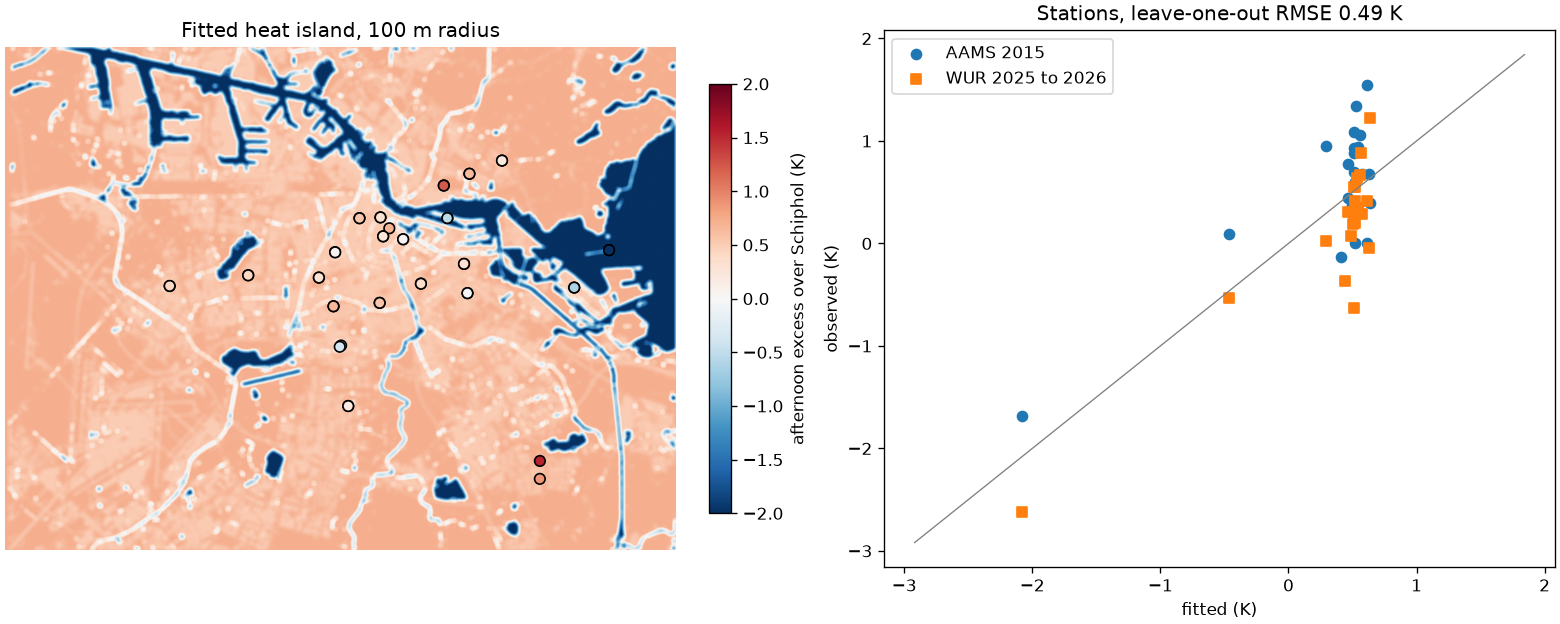
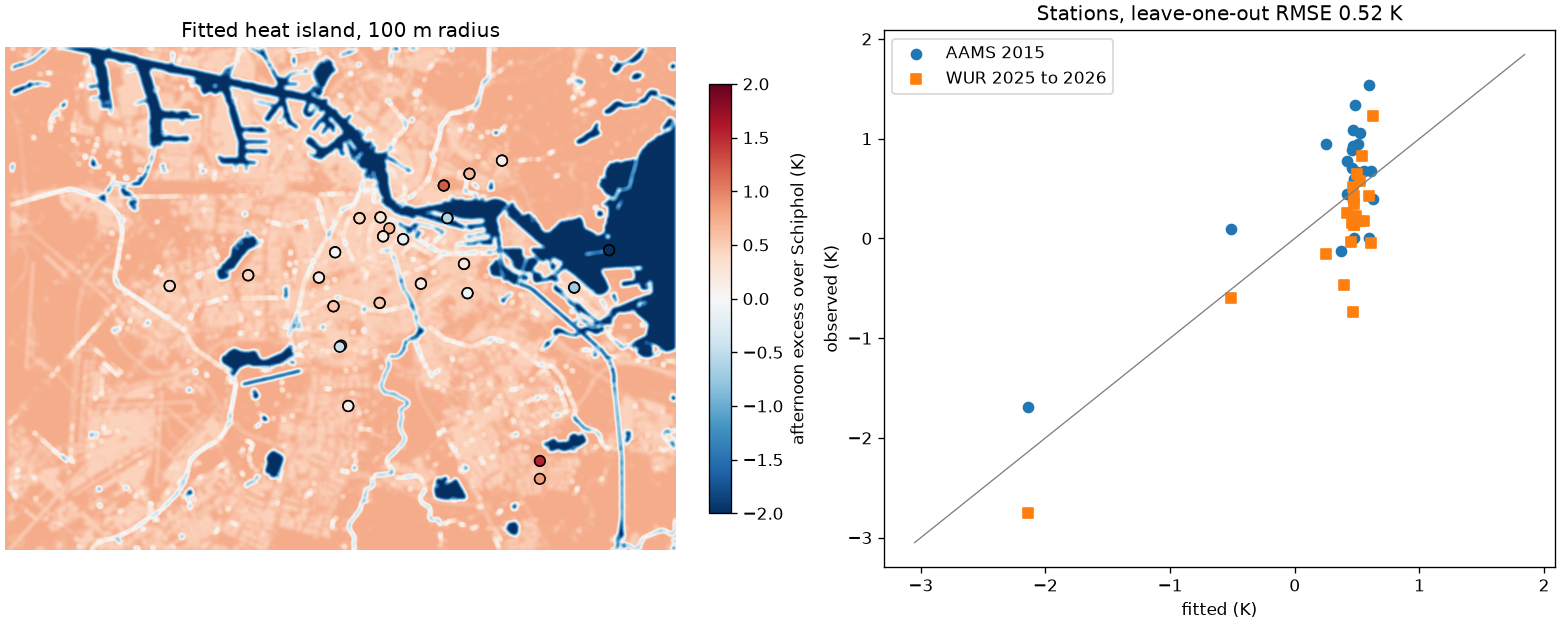
Heat island fit: compare WUR readings at the full hour, as KNMI reports

diff --git a/scripts/fit_uhi.py b/scripts/fit_uhi.py
@@ -75,8 +75,11 @@ def wur() -> tuple[pd.DataFrame, pd.DataFrame]:
         df = pd.read_csv(d / f"distributed_network_{y}.csv", skiprows=[1], na_values="NaN")
         df.index = pd.to_datetime(df.pop("Timestamp")).dt.tz_localize("UTC")
         ta = df[[c for c in df if c.startswith("DN_TA_")]]
-        # mean over [h, h+1) UTC, labelled by the end of the hour as KNMI does
-        frames.append(ta.resample("1h", label="right", closed="left").mean())
+        # KNMI hourly temperature is a reading at the full hour, so take the station
+        # readings within 10 minutes of each full hour rather than an hourly mean
+        near = ta.index.round("1h")
+        close = (ta.index - near).to_series().abs().to_numpy() <= pd.Timedelta(minutes=10)
+        frames.append(ta[close].groupby(near[close]).mean())
     ta = pd.concat(frames)
     ta.columns = ["W" + c.split("_")[2] for c in ta.columns]
     meta = st.assign(station="W" + st["station"].astype(str), network="WUR 2025 to 2026")

diff --git a/docs/uhi.md b/docs/uhi.md
@@ -6,13 +6,13 @@ The model uses air temperature from Schiphol. On hot afternoons (Schiphol maximu
 
 | Radius | Leave-one-out RMSE (K) |
 |---|---|
-| 100 m | 0.49 |
-| 250 m | 0.52 |
-| 500 m | 0.53 |
-| 1000 m | 0.57 |
-| none (city mean) | 0.74 |
+| 100 m | 0.52 |
+| 250 m | 0.55 |
+| 500 m | 0.56 |
+| 1000 m | 0.60 |
+| none (city mean) | 0.76 |
 
-Chosen: 100 m. Excess = +0.72 -0.21 x built -2.87 x water (K, fractions 0 to 1). Station mean excess +0.36 K, range -2.6 to +1.5 K.
+Chosen: 100 m. Excess = +0.74 -0.28 x built -2.95 x water (K, fractions 0 to 1). Station mean excess +0.33 K, range -2.7 to +1.5 K.
 
 | Station | Network | Excess (K) | Fitted (K) | Built | Water |
 |---|---|---|---|---|---|
@@ -20,50 +20,50 @@ Chosen: 100 m. Excess = +0.72 -0.21 x built -2.87 x water (K, fractions 0 to 1).
 | Benkoelenstraat | AAMS 2015 | +1.3 | +0.5 | 0.91 | 0.00 |
 | Zamenhofstraat | WUR 2025 to 2026 | +1.2 | +0.6 | 0.39 | 0.00 |
 | IJburglaan | AAMS 2015 | +1.1 | +0.5 | 0.98 | 0.00 |
-| Raphaelstraat | AAMS 2015 | +1.1 | +0.6 | 0.76 | 0.00 |
+| Raphaelstraat | AAMS 2015 | +1.1 | +0.5 | 0.76 | 0.00 |
 | Nieuwe Uijlenburgerstaat | AAMS 2015 | +0.9 | +0.3 | 0.80 | 0.09 |
 | Tweede Oosterparkstraat | AAMS 2015 | +0.9 | +0.5 | 0.84 | 0.00 |
 | Lutmastraat | AAMS 2015 | +0.9 | +0.5 | 0.97 | 0.00 |
 | Anjelierstraat | AAMS 2015 | +0.9 | +0.5 | 0.94 | 0.00 |
 | Oudezijdsvoorburgwal | AAMS 2015 | +0.9 | +0.5 | 0.99 | 0.00 |
-| Scherpenzeelstraat | WUR 2025 to 2026 | +0.9 | +0.6 | 0.72 | 0.00 |
-| Kattengat | AAMS 2015 | +0.8 | +0.5 | 0.94 | 0.02 |
+| Scherpenzeelstraat | WUR 2025 to 2026 | +0.8 | +0.5 | 0.72 | 0.00 |
+| Kattengat | AAMS 2015 | +0.8 | +0.4 | 0.94 | 0.02 |
 | Oudezijdsvoorburgwal | AAMS 2015 | +0.7 | +0.5 | 1.00 | 0.00 |
 | Saxenburgerdwarsstraat | AAMS 2015 | +0.7 | +0.6 | 0.67 | 0.00 |
 | Galileiplein | AAMS 2015 | +0.7 | +0.6 | 0.44 | 0.00 |
 | Purmerweg | AAMS 2015 | +0.7 | +0.5 | 0.86 | 0.00 |
-| Raephaelstraat | WUR 2025 to 2026 | +0.7 | +0.6 | 0.76 | 0.00 |
 | Purmerweg | WUR 2025 to 2026 | +0.6 | +0.5 | 0.86 | 0.00 |
 | Markengauw | AAMS 2015 | +0.6 | +0.5 | 0.94 | 0.00 |
-| Lutmastraat | WUR 2025 to 2026 | +0.6 | +0.5 | 0.97 | 0.00 |
-| Anjeliersstraat | WUR 2025 to 2026 | +0.5 | +0.5 | 0.94 | 0.00 |
-| Kinkerstraat | AAMS 2015 | +0.4 | +0.5 | 0.90 | 0.02 |
-| Kwelderweg | WUR 2025 to 2026 | +0.4 | +0.5 | 0.96 | 0.00 |
+| Raephaelstraat | WUR 2025 to 2026 | +0.6 | +0.5 | 0.76 | 0.00 |
+| Lutmastraat | WUR 2025 to 2026 | +0.5 | +0.5 | 0.97 | 0.00 |
+| Kinkerstraat | AAMS 2015 | +0.4 | +0.4 | 0.90 | 0.02 |
 | Comeniusstraat | WUR 2025 to 2026 | +0.4 | +0.6 | 0.50 | 0.00 |
+| Anjeliersstraat | WUR 2025 to 2026 | +0.4 | +0.5 | 0.94 | 0.00 |
 | Zamenhofstraat | AAMS 2015 | +0.4 | +0.6 | 0.39 | 0.00 |
 | Saskia van Uylenburgweg | AAMS 2015 | +0.4 | +0.5 | 0.68 | 0.03 |
-| Tweede Oosterparkstraat | WUR 2025 to 2026 | +0.3 | +0.5 | 0.84 | 0.00 |
-| Kattengat | WUR 2025 to 2026 | +0.3 | +0.5 | 0.94 | 0.02 |
-| Benkoelenstraat | WUR 2025 to 2026 | +0.3 | +0.5 | 0.90 | 0.00 |
-| Saxenburgerdwarsstraat | WUR 2025 to 2026 | +0.3 | +0.6 | 0.67 | 0.00 |
+| Kwelderweg | WUR 2025 to 2026 | +0.3 | +0.5 | 0.96 | 0.00 |
+| Kattengat | WUR 2025 to 2026 | +0.3 | +0.4 | 0.94 | 0.02 |
+| Benkoelenstraat | WUR 2025 to 2026 | +0.2 | +0.5 | 0.90 | 0.00 |
+| Tweede Oosterparkstraat | WUR 2025 to 2026 | +0.2 | +0.5 | 0.84 | 0.00 |
+| Saxenburgerdwarsstraat | WUR 2025 to 2026 | +0.2 | +0.6 | 0.67 | 0.00 |
 | Oudezijdsvoorburgwal_Z | WUR 2025 to 2026 | +0.2 | +0.5 | 0.99 | 0.00 |
-| Markengauw | WUR 2025 to 2026 | +0.2 | +0.5 | 0.94 | 0.00 |
-| Saskia van Uylenburgweg | WUR 2025 to 2026 | +0.2 | +0.5 | 0.65 | 0.03 |
+| Markengauw | WUR 2025 to 2026 | +0.1 | +0.5 | 0.94 | 0.00 |
+| Saskia van Uylenburgweg | WUR 2025 to 2026 | +0.1 | +0.5 | 0.65 | 0.03 |
 | Javakade | AAMS 2015 | +0.1 | -0.5 | 0.53 | 0.37 |
-| Kinkerstraat | WUR 2025 to 2026 | +0.1 | +0.5 | 0.88 | 0.02 |
-| Nieuwe Uilenburgerstraat | WUR 2025 to 2026 | +0.0 | +0.3 | 0.80 | 0.09 |
 | Kwelderweg | AAMS 2015 | +0.0 | +0.5 | 0.96 | 0.00 |
 | Comeniusstaat | AAMS 2015 | +0.0 | +0.6 | 0.50 | 0.00 |
-| Galileiplantsoen | WUR 2025 to 2026 | -0.0 | +0.6 | 0.44 | 0.00 |
+| Kinkerstraat | WUR 2025 to 2026 | -0.0 | +0.4 | 0.88 | 0.02 |
+| Galileiplantsoen | WUR 2025 to 2026 | -0.1 | +0.6 | 0.44 | 0.00 |
 | Gustav Mahlerplein | AAMS 2015 | -0.1 | +0.4 | 0.86 | 0.04 |
-| Gustav Mahlerplein | WUR 2025 to 2026 | -0.4 | +0.4 | 0.91 | 0.03 |
-| Majangracht | WUR 2025 to 2026 | -0.5 | -0.5 | 0.53 | 0.37 |
-| Diemerparklaan | WUR 2025 to 2026 | -0.6 | +0.5 | 0.98 | 0.00 |
+| Nieuwe Uilenburgerstraat | WUR 2025 to 2026 | -0.2 | +0.3 | 0.80 | 0.09 |
+| Gustav Mahlerplein | WUR 2025 to 2026 | -0.5 | +0.4 | 0.91 | 0.03 |
+| Majangracht | WUR 2025 to 2026 | -0.6 | -0.5 | 0.53 | 0.37 |
+| Diemerparklaan | WUR 2025 to 2026 | -0.7 | +0.5 | 0.98 | 0.00 |
 | Natuureiland IJburg | AAMS 2015 | -1.7 | -2.1 | 0.00 | 0.97 |
-| Natuur eiland IJburg | WUR 2025 to 2026 | -2.6 | -2.1 | 0.00 | 0.97 |
+| Natuur eiland IJburg | WUR 2025 to 2026 | -2.7 | -2.1 | 0.00 | 0.97 |
 
 ![Afternoon heat island](../figures/uhi.png)
 
-On land (less than 10% water within 100 m) the fit is close to a constant +0.5 K, while the stations spread by 0.5 K; land cover at this scale does not explain that spread, so street to street differences in air temperature stay unknown. Most of the fit's skill comes from water, which cools its surroundings by up to 2.9 K. The same street measured in 2015 and in 2025 to 2026 differs by 0.6 K on average, a measure of how much sensors and summers matter.
+On land (less than 10% water within 100 m) the fit is close to a constant +0.5 K, while the stations spread by 0.5 K; land cover at this scale does not explain that spread, so street to street differences in air temperature stay unknown. Most of the fit's skill comes from water, which cools its surroundings by up to 3.0 K. The same street measured in 2015 and in 2025 to 2026 differs by 0.7 K on average, a measure of how much sensors and summers matter.
 
 Data: AAMS stations 2015, Ronda et al. 2017, PANGAEA, CC BY 3.0; MAQ Amsterdam Distributed Network, WUR, CC BY-NC 4.0; ESA WorldCover 2021, CC BY 4.0; KNMI.
